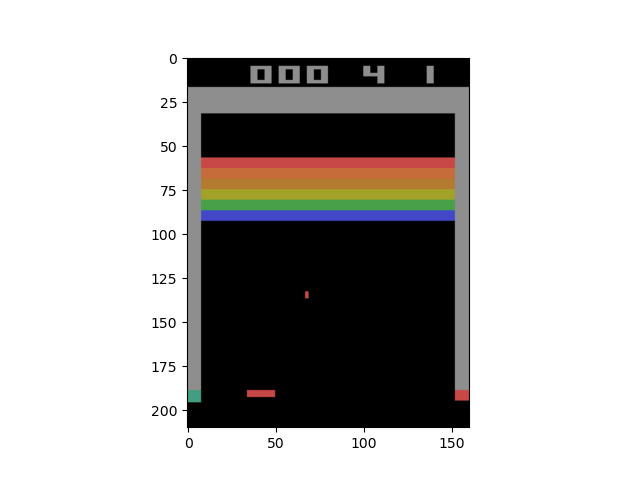
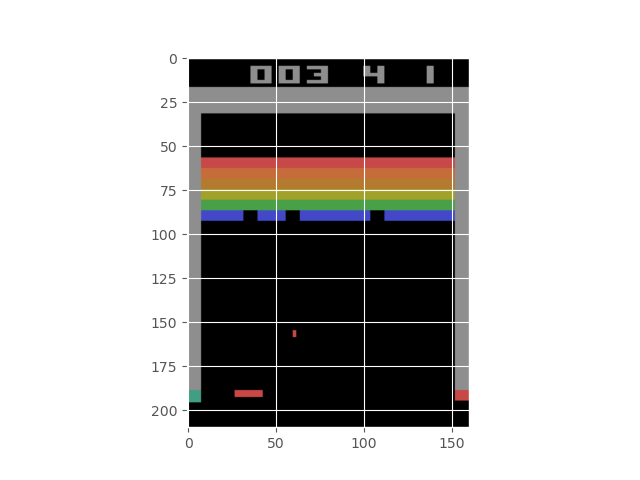
working CNN

diff --git a/src/DQN.py b/src/DQN.py
@@ -22,18 +22,22 @@ from src.memory_replay import MemoryReplay
 import os
 os.environ["KMP_DUPLICATE_LIB_OK"]="TRUE"
 
-# TODO: Implement the CNN from the paper
 class DQN(nn.Module):
     def __init__(self, n_obs, n_action):
         super(DQN, self).__init__()
-        self.linear1 = nn.Linear(n_obs, 128)
-        self.linear2 = nn.Linear(128, 128)
-        self.linear3 = nn.Linear(128, n_action)
+        self.conv1 = nn.Conv2d(1, 32, kernel_size=8, stride=4)
+        self.conv2 = nn.Conv2d(32, 64, kernel_size=4, stride=2)
+        self.conv3 = nn.Conv2d(64, 64, kernel_size=3, stride=1)
+        self.fc1 = nn.Linear(3136*512, 512)  
+        self.fc2 = nn.Linear(512, n_action)
 
     def forward(self, x):
-        x = F.relu(self.linear1(x))
-        x = F.relu(self.linear2(x))
-        x = self.linear3(x)
+        x = F.relu(self.conv1(x))
+        x = F.relu(self.conv2(x))
+        x = F.relu(self.conv3(x))
+        x = x.view(x.size(0), -1) 
+        x = F.relu(self.fc1(x))
+        x = self.fc2(x)
         return x
 
 
@@ -116,8 +120,6 @@ class DQN_Network():
     def update_target_network(self, t: int = 0) -> None:
         if t % self.C == 0:
             self.target_network.load_state_dict(self.policy_network.state_dict())
-
-    #TODO: I would like a method so the user can see a frame of the game
 
     def save_policy_network(self, path:str) -> None:
         torch.save(self.policy_network.state_dict(), path)

diff --git a/src/breakout_env.py b/src/breakout_env.py
@@ -16,8 +16,10 @@ import matplotlib.pyplot as plt
 from typing import Union
 from skimage.transform import resize
 
+# housekeeping
 import os
 os.environ["KMP_DUPLICATE_LIB_OK"]="TRUE"
+plt.style.use('ggplot')
 
 class BreakoutEnvAgent():
     
@@ -75,7 +77,7 @@ class BreakoutEnvAgent():
         return self.env.reward_range
     
     def convert_observation(self) -> np.array:
-        return resize(np.dot(self.observation, [0.299, 0.587, 0.114]), (84, 84)).flatten()
+        return resize(np.dot(self.observation, [0.299, 0.587, 0.114]), (84, 84))
     
     def step(self, action:int) -> tuple:
         self.observation, self.reward, self.terminated, self.truncated, self.info = self.env.step(action)
@@ -93,10 +95,10 @@ class BreakoutEnvAgent():
 
     #TODO: create gif from screenshots
 
-    def plot_rewards(self, show: bool = True, save: bool = True) -> None:
-        # TODO: do an optional rolling average
-        # TODO: go to ggplot style
-        plt.plot(self.rewards)
+    def plot_rewards(self, bin_size:int = 1, show: bool = True, save: bool = True) -> None:
+        rewards_rolling_average = np.convolve(self.rewards, np.ones(bin_size), 'valid') / bin_size
+        
+        plt.plot(rewards_rolling_average)
         plt.title('Breakout Rewards')
         plt.xlabel('Episodes')
         plt.ylabel('Rewards')

diff --git a/main.py b/main.py
@@ -23,7 +23,7 @@ np.random.seed(0)
 torch.manual_seed(0)
 
 def main():
-    num_episodes = 1_000
+    num_episodes = 5_000
     max_memory = 1000
 
     # init environment
@@ -50,7 +50,6 @@ def main():
         dqn.update_epsilon()
         
         while True:
-            env.screenshot()
             A = dqn.get_action(S)
 
             S_prime, R, _, _, _ = env.step(A)
